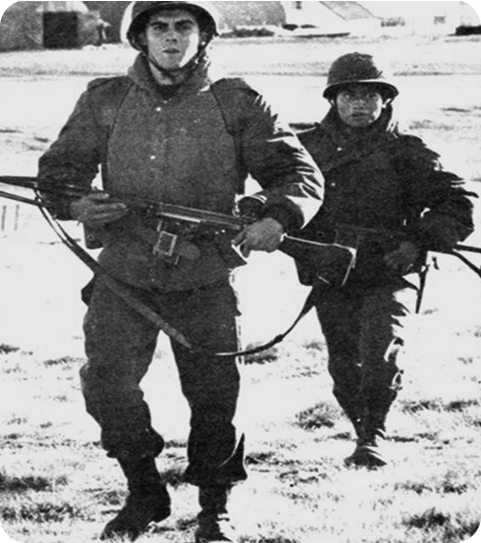
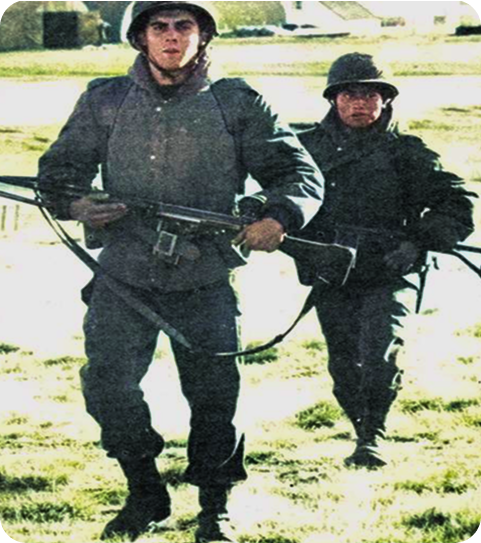
efecto hover ok

diff --git a/src/css/malvinas.css b/src/css/malvinas.css
@@ -39,4 +39,11 @@
 
 .imagen-malvinas img {
   width: 100%;
+  filter: grayscale(1);
+  cursor: pointer;
+}
+
+.imagen-malvinas img:hover {
+  transition: filter 0.8s ease;
+  filter: grayscale(0);
 }
